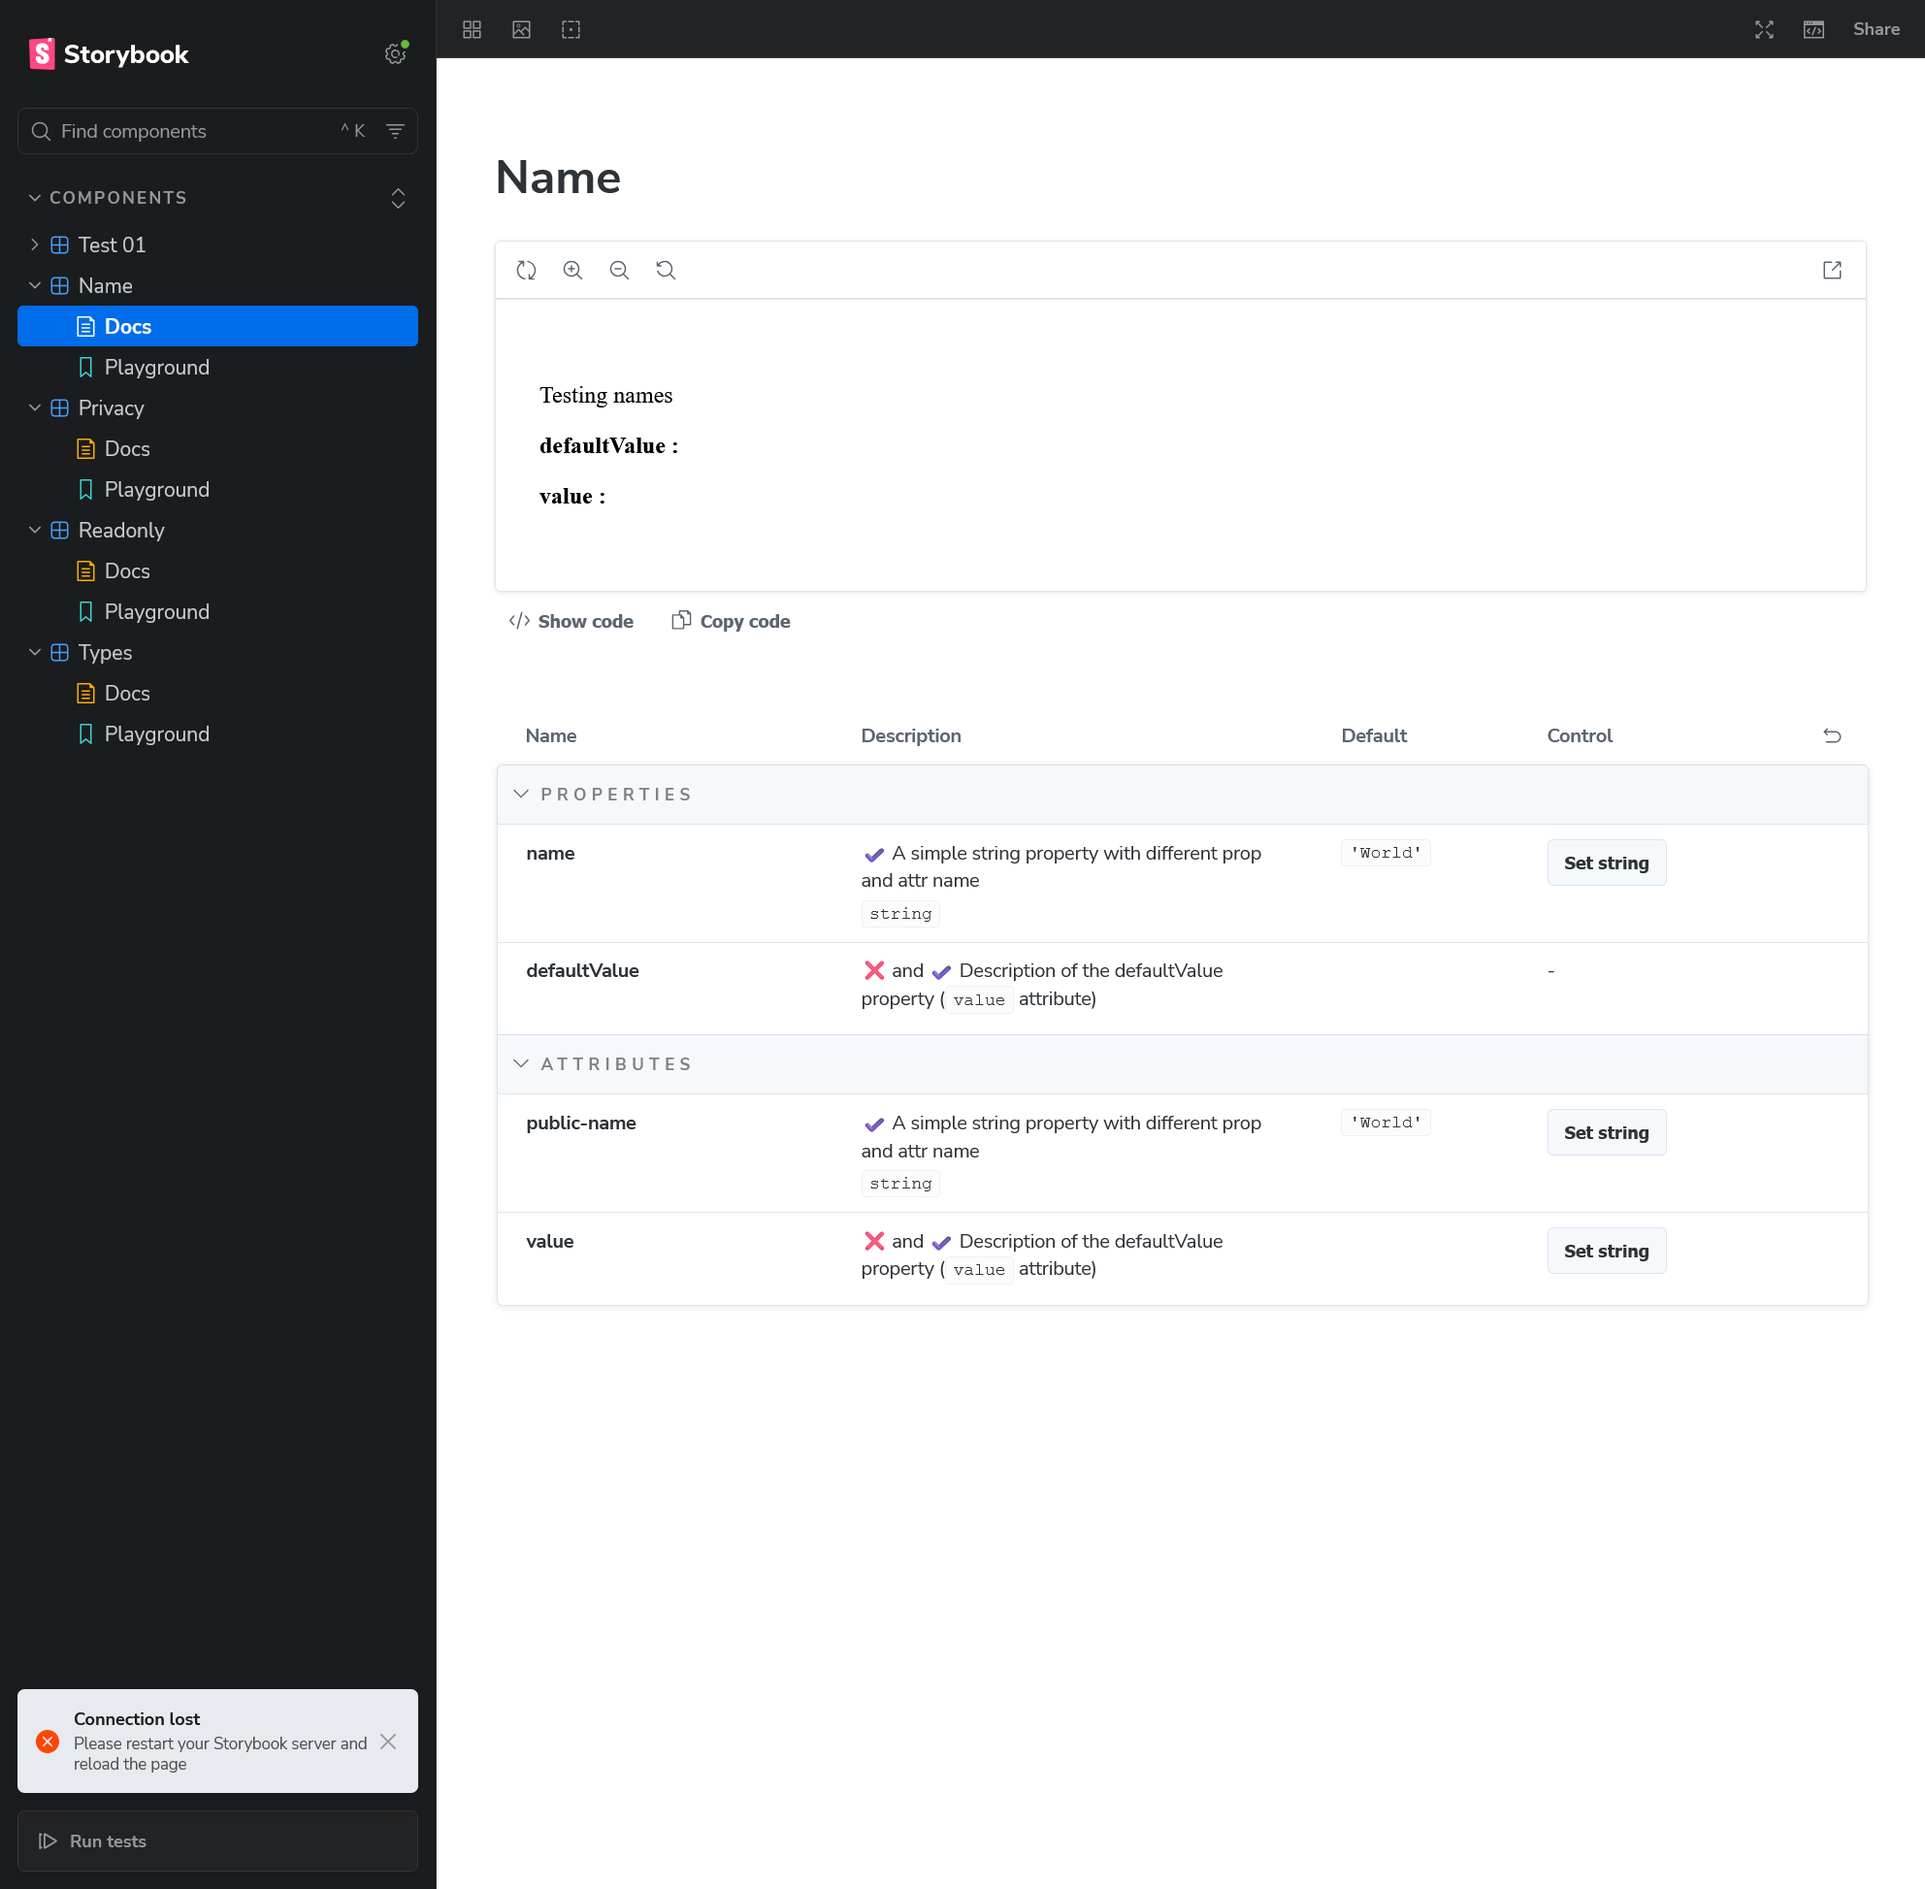
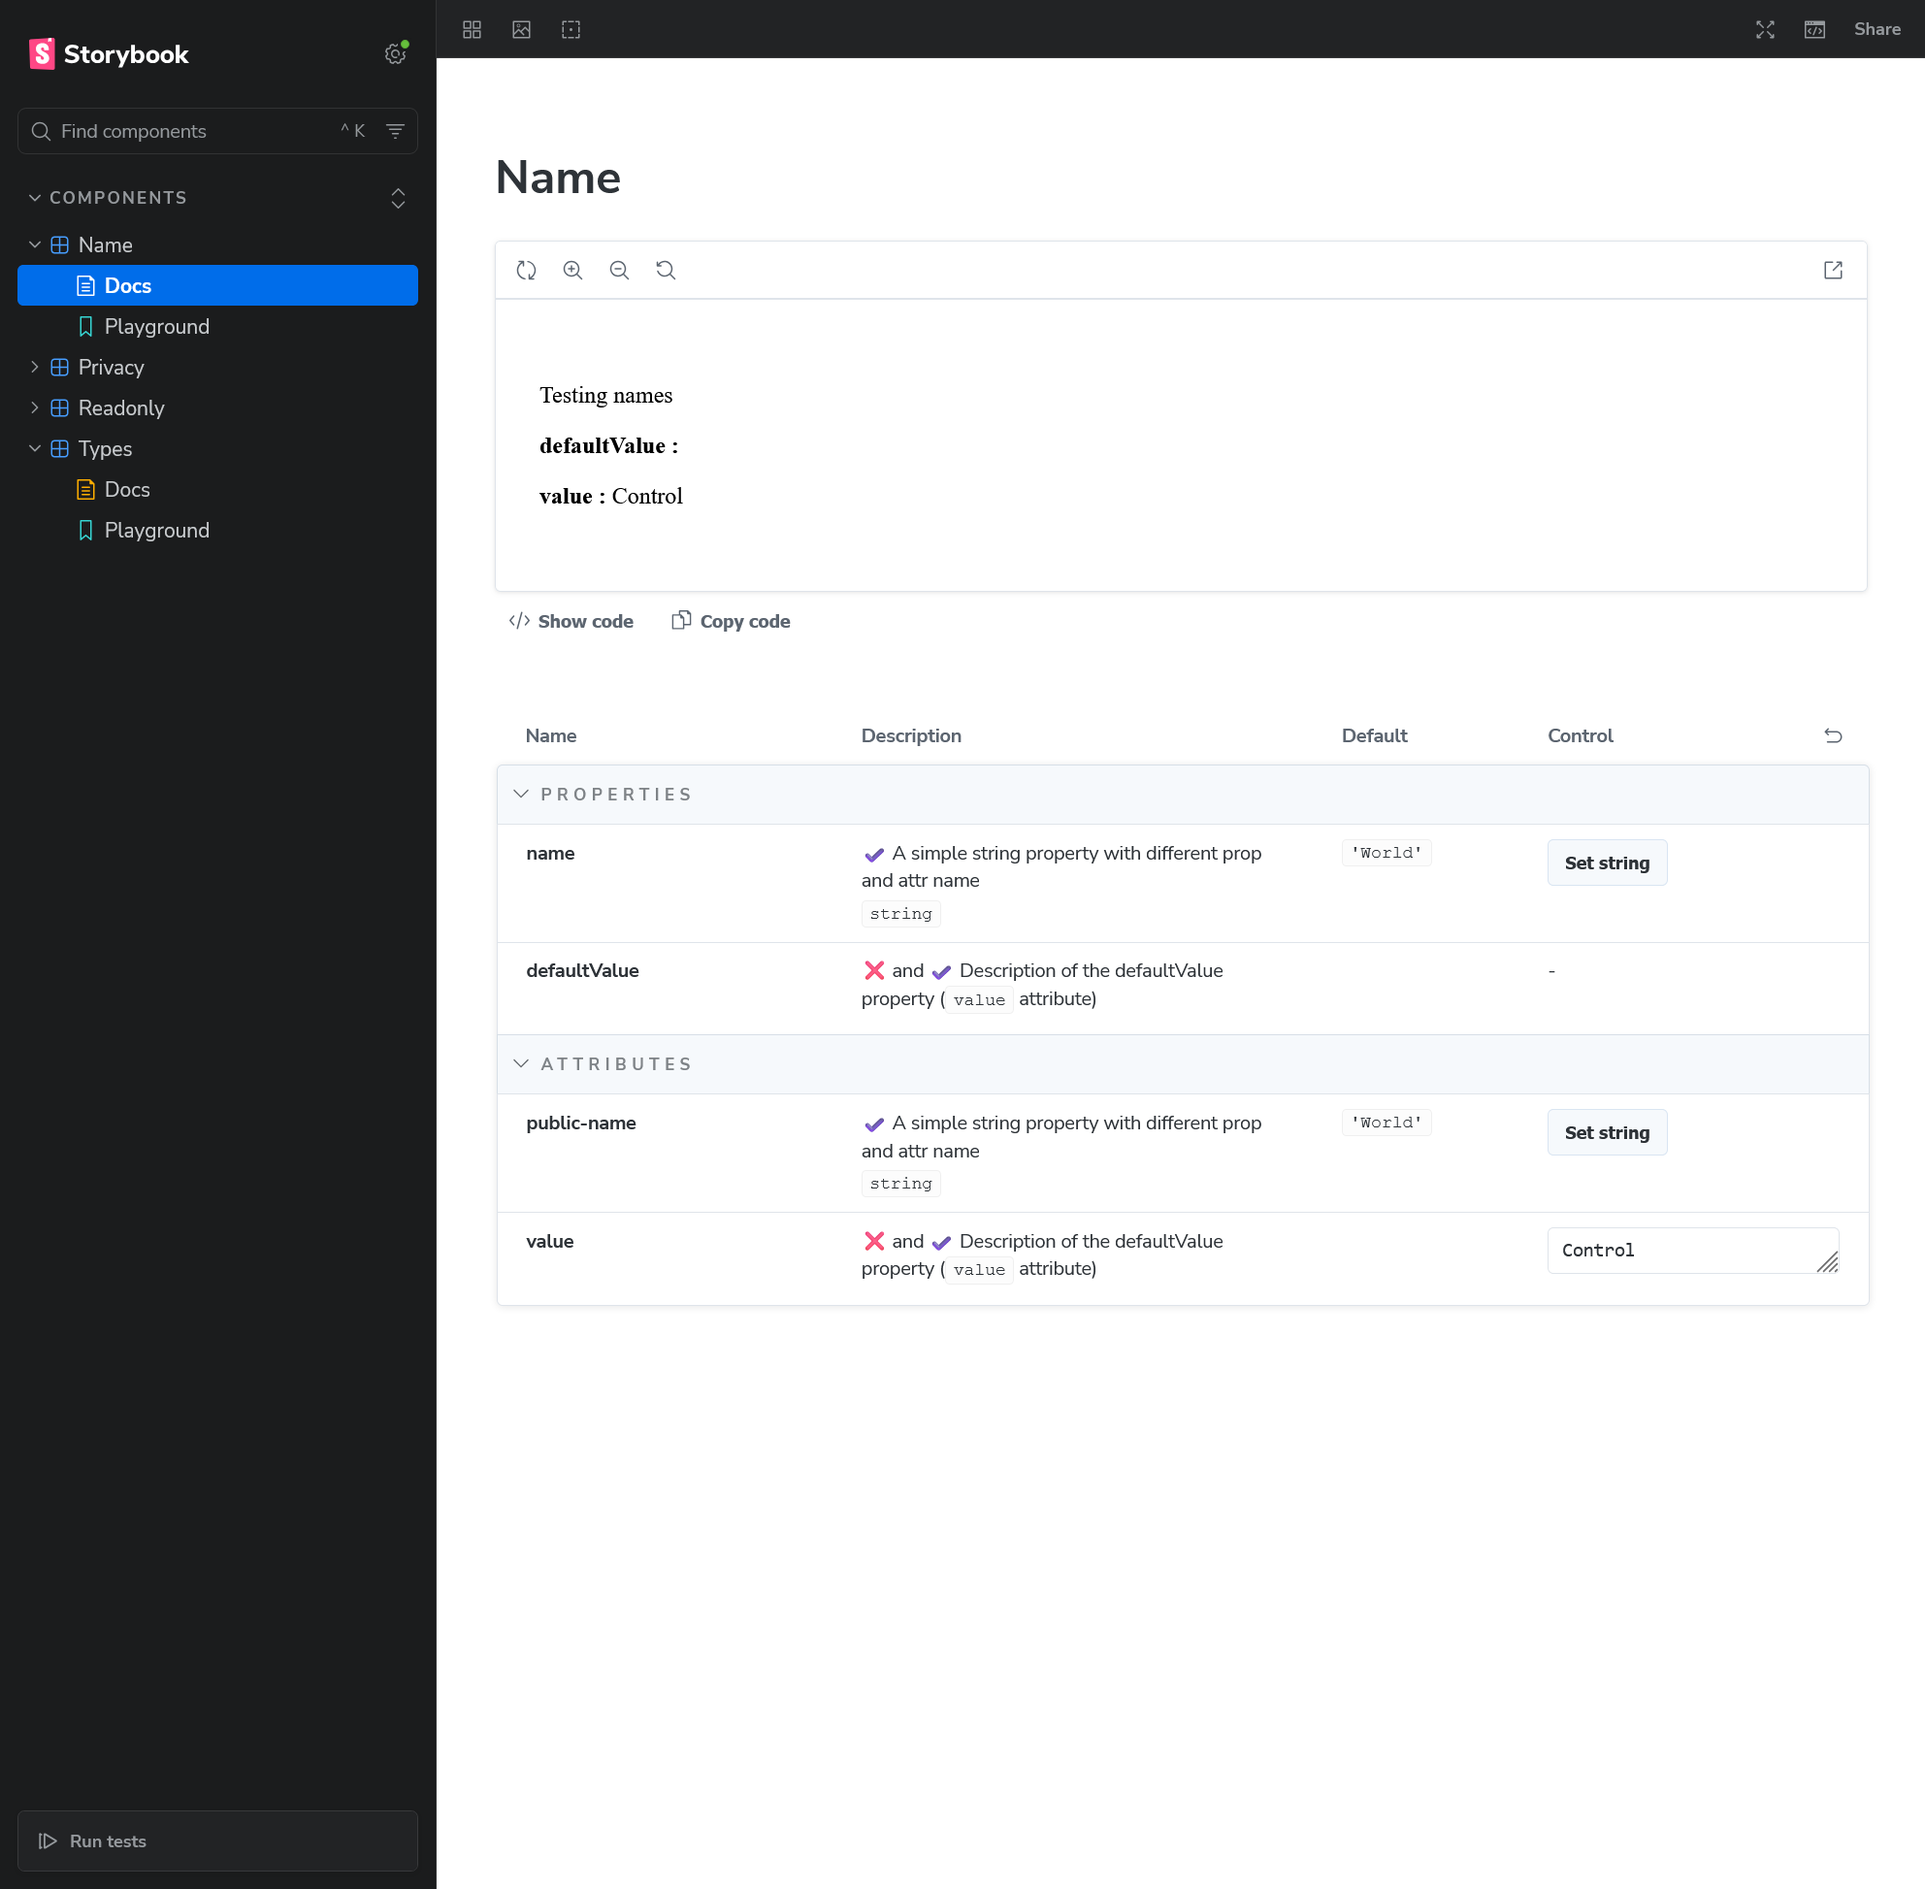
Adjusting after removing CEM injection from preview.js

diff --git a/src/components/w-types/w-types.js b/src/components/w-types/w-types.js
@@ -2,6 +2,21 @@ import { LitElement, html } from 'lit';
 import { customElement, property } from 'lit/decorators.js';
 import {when} from 'lit/directives/when.js';
 
+/**
+ * This component goes through various types for properties
+ *
+ * ✔ A string property - control is OK
+ *
+ * ✔ A number property - control is OK
+ *
+ * ❌ An array property - control does not allow inputting an array
+ *
+ * ✔ A enumeration property - control is OK
+ *
+ * ✔ A enumeration property with a lot of values - control is OK
+ *
+ * ✔ An object property - control is not available (as expected)
+ */
 @customElement('w-types')
 export class WTypes extends LitElement {
   /**
@@ -26,6 +41,20 @@ export class WTypes extends LitElement {
   accessor arrayProp = [];
 
   /**
+   * ✔ An enumeration property.
+   * @type {'blue' | 'red' | 'green'}
+   */
+  @property({ type: String })
+  accessor color = 'red';
+
+  /**
+   * ✔ An enumeration property with more values.
+   * @type {'100' | '200' | '300' | '400' | '500' | '600' | '700' | '800' | '900' | '1000' | '1100' | '1200' | '1300' | '1400'}
+   */
+  @property({ type: String })
+  accessor variant = '500';
+
+  /**
    * ✔ An object property
    * @type {object}
    */
@@ -33,14 +62,7 @@ export class WTypes extends LitElement {
   accessor objectProp = {};
 
   /**
-   * ❌ An enumeration property. Control object seems invalid ?
-   * @type {'blue' | 'red' | 'green'}
-   */
-  @property({ type: String })
-  accessor color = 'red';
-
-  /**
-   * ❌ A function property. Control object should probably not show
+   * ✔ A function property.
    * @type {() => boolean}
    */
   @property({ type: String })
@@ -60,8 +82,8 @@ export class WTypes extends LitElement {
           <tbody>
             ${this.__printValue('stringProp', 'string')}
             ${this.__printValue('numberProp', 'number')}
-            ${this.__printValue('color', 'string')}
             ${this.__printValue('arrayProp')}
+            ${this.__printValue('color', 'string')}            
             ${this.__printValue('objectProp', 'object')}
             ${this.__printValue('functionProp', 'function')}
           </tbody>

diff --git a/src/components/w-privacy/w-privacy.js b/src/components/w-privacy/w-privacy.js
@@ -1,31 +1,42 @@
 import { LitElement, html } from 'lit';
 import { customElement, property } from 'lit/decorators.js';
 
+/**
+ * This component has :
+ * - 1 public property with matching attribute
+ * - 1 protected field
+ * - 1 private field
+ * - 1 private static field
+ *
+ * ✔ Only the public property is visible
+ *
+ * ✔ Protected and private are not visible
+ *
+ * ✔ Statics are not visible
+ */
 @customElement('w-privacy')
 export class WPrivacy extends LitElement {
   /**
-   * ❌ Should not appear in description
-   * @private
-   * @readonly
+   * ✔ Static - does not appear in generated documentation
    */
   static formAssociated = true;
 
   /**
-   * ✔ A public property - Visible in description
+   * ✔ A public property - Visible in generated documentation
    * @type {string}
    */
   @property({ type: String})
-  accessor publicName = 'World';
+  accessor publicName = 'Public name value';
 
   /**
-   * ❌ A protected property - should not appear in description ?
+   * ✔ A protected property - does not appear in generated documentation
    * @type {string}
    * @protected
    */
   accessor _protectedName = 'World';
 
   /**
-   * ❌ A private property - should not appear in description
+   * ✔ A private property - should not appear in generated documentation
    * @type {string}
    * @private
    */
@@ -34,6 +45,7 @@ export class WPrivacy extends LitElement {
   render() {
     return html`
       <p>Testing privacy</p>
+      <pre>${this.publicName}</pre>
     `;
   }
 }

diff --git a/src/components/w-readonly/w-readonly.js b/src/components/w-readonly/w-readonly.js
@@ -1,14 +1,17 @@
 import { LitElement, html } from 'lit';
 import { customElement, property } from 'lit/decorators.js';
 
+/**
+ * This component has :
+ * - 1 public property with matching attribute
+ * - 1 readonly property
+ *
+ * ✔ Both properties are visible in the generated documentation
+ *
+ * ✔ Only the editable property has control
+ */
 @customElement('w-readonly')
 export class WReadonly extends LitElement {
-  /**
-   * ❌ Readonly - Should not have control in UI
-   * @readonly
-   */
-  static formAssociated = true;
-
   /**
    * ✔ A standard property - Does have a control in UI
    * @type {string}

diff --git a/src/components/w-names/w-name.js b/src/components/w-names/w-name.js
@@ -1,6 +1,17 @@
 import { LitElement, html } from 'lit';
 import { customElement, property } from 'lit/decorators.js';
 
+/**
+ * This component has:
+ * - one `name` property bound to its matching `name` attribute
+ * - one `defaultValue` property bound to the `value` attribute
+ * - one `value` property with no attribute
+ *
+ * ✔ A simple string property with different prop and attr name
+ *
+ * ❌ Attribute and property `value` collides, leading to inaccurate
+ * description, and controls changing the wrong property
+ */
 @customElement('w-name')
 export class WName extends LitElement {
   /**

diff --git a/README.md b/README.md
@@ -1,10 +1,20 @@
 # Storybook 11 docgen testing
 
+## Objective
 
-Edit:
+Some tests about the integration of features from `wc-toolkit/storybook-helpers` into Storybook 11.
+
+## Tests
+
+- [Names](src/components/w-names/README.md) : tests about names detection - ❌ some issues
+- [Privacy](src/components/w-names/README.md) : tests about privacy handling - ✔ All good
+- [Readonly](src/components/w-names/README.md) : tests about readonly handling - ✔ All good
+- [Types](src/components/w-names/README.md) : tests about types detections and matching controls - ❌ some issues
+
+
+## First issue 
+
 Oops, look like my setup was wrong and some of the issues appear to come from this.
-
-I'll have to redo my tests :)
 
 It turns out I had injected the CEM twice.
 
@@ -26,23 +36,11 @@ And once in the `main.js`:
 ```
 I have tested removing it from the preview.js and most of my issues seems to have vanished
 
-
-
-## Objective
-
-Some tests about the integration of features from `wc-toolkit/storybook-helpers` into Storybook 11.
-
-## Tests
-
-- [Names](src/components/w-names/README.md) : tests about names detection.
-- [Privacy](src/components/w-names/README.md) : tests about privacy handling.
-- [Readonly](src/components/w-names/README.md) : tests about readonly handling.
-- [Types](src/components/w-names/README.md) : tests about types detections and matching controls.
+This is now fixed, and tests have been adjusted.
 
 ## Overall feedbacks
 
 - Native integration fo the CEM feels good.
 - It reduces the redundant boilerplate code required to write stories _(`wc-toolkit/storybook-helpers` already did a great job, but native integration pushes it further)_
 - Not having a default bound value is a good idea. Having to explicitly hit the "Set string/object" button actually makes it easier to test components default behavior.
-- Once thing that would be good, is a button to clear the assigned value in a control, and go back to the unbound value state.
-- 
+- One thing that would be good, is a button to clear the assigned value in a control, and go back to the unbound value state.

diff --git a/src/components/w-privacy/README.md b/src/components/w-privacy/README.md
@@ -1,5 +1,3 @@
-# OUTDATED (see edit in repo README.md)
-
 ![Preview](preview.png)
 
 ## Objective
@@ -8,49 +6,12 @@ Testing respect of 'privacy' field in the CEM.
 
 ## Working as expected
 
-- :white_check_mark: Public prop/attr shows up in the generated description
+- :white_check_mark: Public prop/attr shows up in the generated documentation
+- :white_check_mark: Protected props do not show up in the generated documentation
+- :white_check_mark: Private props do not show up in the generated documentation
+- :white_check_mark: Static props do not show up in the generated documentation
 
 
 ## Issues
 
-### Protected fields
-
-Private field are visible in the generated documentation, even when correctly flagged in manifest.
-```json
-{
-  "kind": "field",
-  "name": "_protectedName",
-  "type": {
-    "text": "string"
-  },
-  "default": "'World'",
-  "description": "A protected property",
-  "privacy": "protected"
-}
-```
-
-#### Expected behavior
-
-Protected fields should not be visible
-
----
-
-### Private fields
-
-:x: Private field are visible in the generated documentation, even when correctly flagged in manifest.
-```json
-{
-  "kind": "field",
-  "name": "__privateName",
-  "type": {
-    "text": "string"
-  },
-  "default": "'World'",
-  "description": "A private property",
-  "privacy": "private"
-}
-```
-
-#### Expected behavior
-
-Private fields should not be visible
+No issue so far

diff --git a/src/components/w-names/README.md b/src/components/w-names/README.md
@@ -1,5 +1,3 @@
-# OUTDATED (see edit in repo README.md)
-
 ![Preview](preview.png)
 
 ## Objective
@@ -44,9 +42,9 @@ But the documentation of the `value` property is missing.
 
 ### Attributes and properties name collision controls issue
 
-:x: Setting the control value of the `value` attribute actually sets the `value` property, when it should change the `defaultValue` property
+:x: Setting the control value of the `value` **attribute** actually sets the `value` **property**, when it should change the `defaultValue` **property**.
 
 #### Expected behavior
 
-- Setting the 'value' attribute should actually use the 'value' attribute (or the 'defaultValue' property)
+- Setting the 'value' attribute using control should actually use the 'value' attribute (or the 'defaultValue' property)
 - A control for the 'value' property should be visible

diff --git a/src/components/w-readonly/README.md b/src/components/w-readonly/README.md
@@ -1,5 +1,3 @@
-# OUTDATED (see edit in repo README.md)
-
 ![Preview](preview.png)
 
 ## Objective
@@ -13,23 +11,4 @@ Testing respect of 'readonly' CEM flag.
 
 ## Issues
 
-### Static readonly fields
-
-Static readonly files have a "Set object" control in the UI
-```json
-{
-  "kind": "field",
-  "name": "formAssociated",
-  "type": {
-    "text": "boolean"
-  },
-  "static": true,
-  "default": "true",
-  "description": "Should not appear in description",
-  "readonly": true
-}
-```
-
-#### Expected behavior
-
-Static readonly fields should not be visible
+No issue so far
